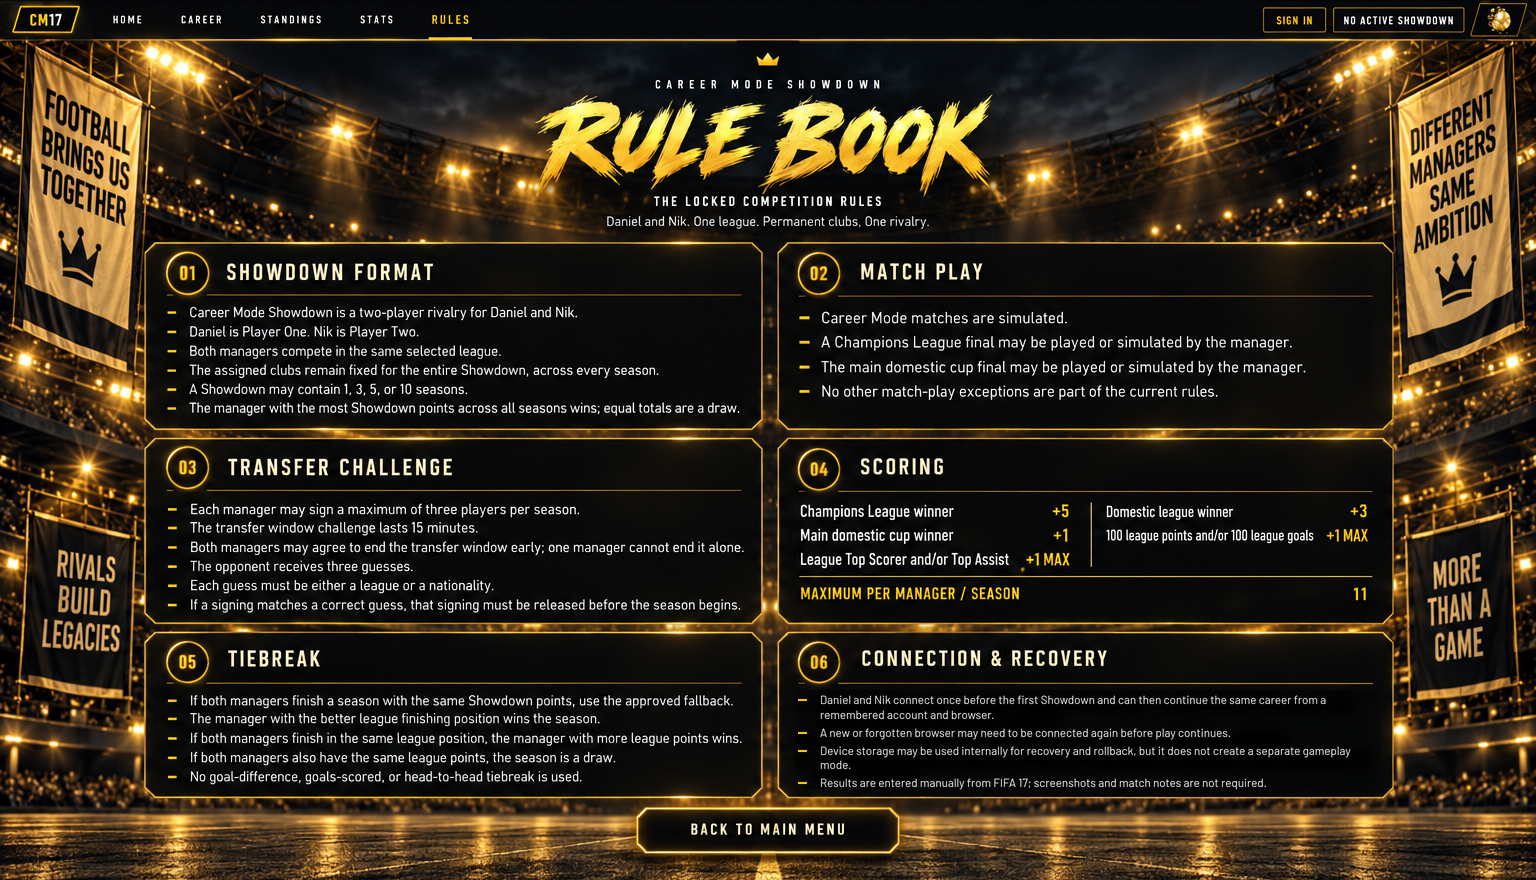
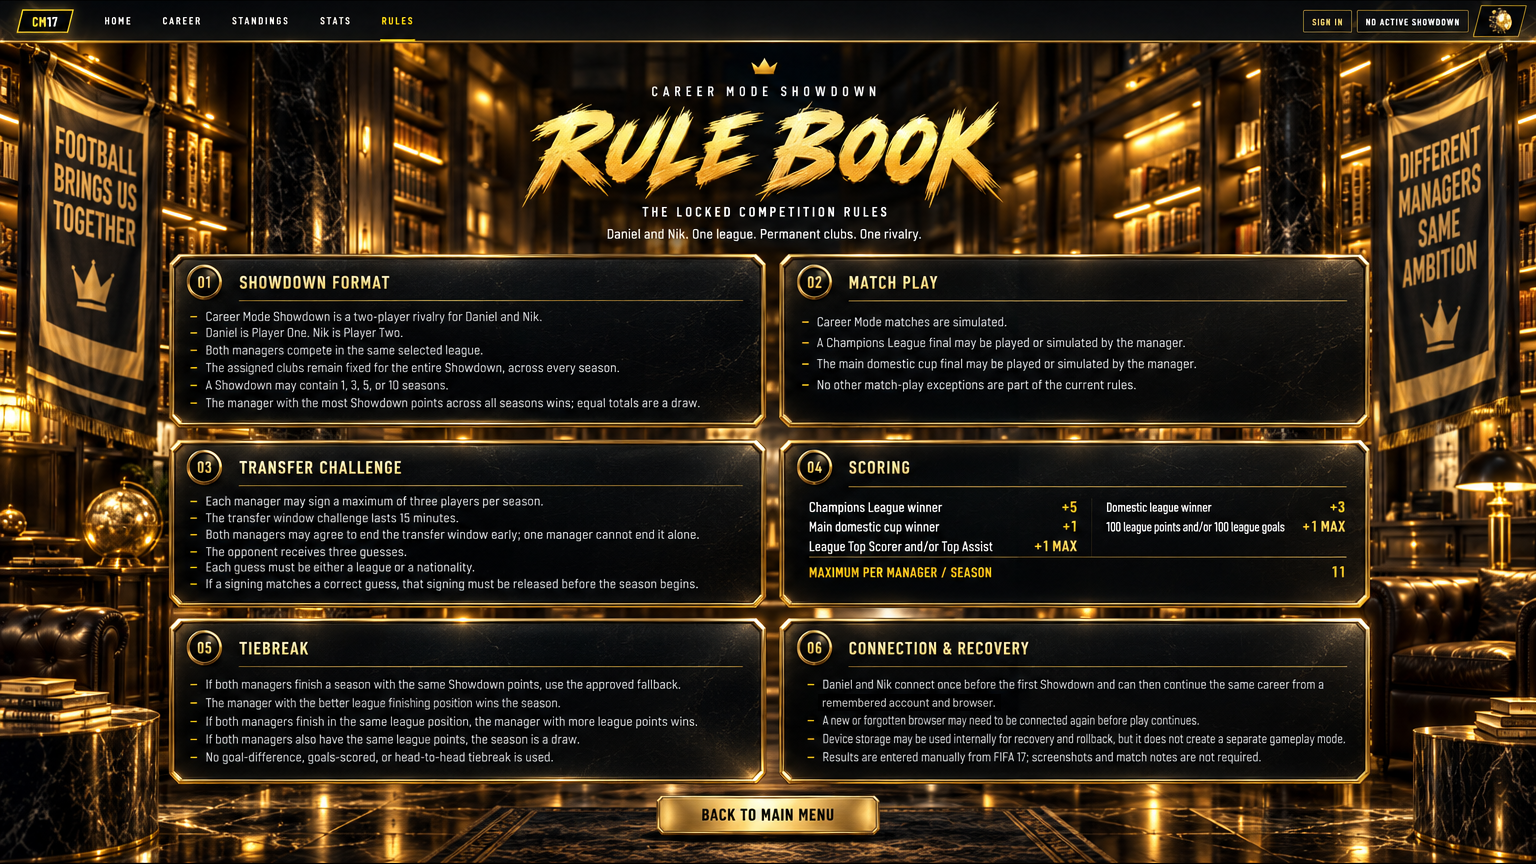
Mockups: re-approve NEXT_RULE_BOOK with the premium redo (one word repainted)
Claude-Session: https://claude.ai/code/session_013pn5j1NjipzmcDNVpF7Fd3

diff --git a/project-documents/factory/mockups/README.md b/project-documents/factory/mockups/README.md
@@ -30,7 +30,7 @@ Nik's mockups and goal images. They show the look to reach. Some contain real cl
 | PHONE_TROPHY_ROOM_SINGLE.png | Trophy Room (one tab picked) | Sat 10 Oct 11:22 p.m. Eastern | Ticket 1588 10B, first try. Same screen with CHAMPIONS LEAGUE lit: the 2 x 2 grid becomes one big display niche with the one trophy large on its plinth and a bigger name-and-counts band. Every other tab uses this layout with its own trophy and counts. Needs the high-res trophy art from ticket 10C (live art is only 341 x 512). sha256 0cd151a596a2b084… |
 | PHONE_FINAL_WINNER.png | Final Winner | Sat 10 Oct 11:23 p.m. Eastern | Ticket 1588 11 of 12, try 1 plus a buttons-only fix. Faces, trophy, scores and every word match live. New: richer stadium night, framed SUMMARY / HONOURS panel, and the two live buttons REVIEW MY SEASON RESULT (dark, gold edge) and BACK TO SHOWDOWN HOME (gold, main) fully on screen with a margin. In live they sit 6-7px from the bottom edge at 393x660. sha256 67de1d61ed589677… |
 | NEXT_HOME.png | Home (desktop, premium) | Sun 11 Oct 6:55 p.m. Eastern | Premium redo (ticket 1610 1 of 14, rewritten prompt), replaces the earlier approved Home, cropped to the screen (1536x871). Same layout and words as live: top bar with CM17 and the five tabs, SIGN IN and NO ACTIVE SHOWDOWN at the top right (SIGN IN required, Nik 11 Oct), THE RIVALRY STARTS HERE, CAREER MODE SHOWDOWN 17 gold brush title, TWO MANAGERS · ONE LEGACY, Daniel LEFT and Nik RIGHT with their name tags, Audius soundtrack card, RIVALRY HEADQUARTERS line, CONTINUE CAREER gold tile and the six tiles with large art. New: black-marble stadium lounge with brushed-gold columns and glass windows on the floodlit pitch, gold-bevel tiles. sha256 0ba7f7528bd2640f… |
-| NEXT_RULE_BOOK.png | Rule Book (desktop, next level) | Sun 11 Oct 3:58 a.m. Eastern | Ticket 1610 13 of 14, first try with the stricter prompt, cropped to the screen (1536x880). Top bar, title, all six cards and every line of 01-05 plus the scoring table match live. Claude fix: GPT merged and garbled the four 06 CONNECTION & RECOVERY lines, so Claude repainted that card body with the four live lines in Barlow (no other pixels touched). Wiring notes: the subtitle shows a comma after "Permanent clubs" (live has a full stop), and the right banner reads SAME AMBITION; use the live banner art (SAME PASSION). New: calmer gold stadium, framed cards, bigger readable rule lines. sha256 bc23b9e610d44f75… |
+| NEXT_RULE_BOOK.png | Rule Book (desktop, premium) | Sun 11 Oct 8:28 p.m. Eastern | Premium redo (ticket 1610 13 of 14, rewritten prompt), replaces the 3:58 a.m. picture, cropped to 16:9 (1536x864). Top bar with SIGN IN and NO ACTIVE SHOWDOWN, RULE BOOK gold brush title, subtitle, all six cards: every rule line in 01-03, 05, 06 and every scoring value in 04 match live (04 shows Domestic league winner +3 in the right column; live order is fine either way). Claude fix: GPT garbled one word in card 06 ("remembered"), so Claude repainted that one line with the live text in Barlow (no other pixels touched). Wiring note: the right banner reads SAME AMBITION again; use the live banner art (SAME PASSION). New: private members' library with black marble, brushed-gold shelving, gold-bevel framed cards with engraved numbers, polished-gold BACK TO MAIN MENU. sha256 45a057afb50a8d41… |
 | NEXT_CONNECT_PLAYERS.png | Connect Players (desktop, premium) | Sun 11 Oct 6:54 p.m. Eastern | Premium redo (ticket 1610 2 of 14, rewritten prompt), replaces the 6:30 p.m. picture, cropped to 16:9 (1536x864). Same layout and words as live: top bar with CM17 and the five tabs, CONNECT PLAYERS gold-leaf title and line, Daniel LEFT and Nik RIGHT unchanged, all four banners, BACK in the right card. New: black-marble VIP tunnel with brushed-gold walls, framed gold-bevel cards, polished-gold CHOOSE SEASONS. Wiring note: card titles show a dash (DANIEL - START, NIK - JOIN); keep the live middle dot. sha256 e86d6f0a4ba5f52d… |
 | NEXT_SEASON_RESULTS.png | Season Results (desktop, premium) | Sun 11 Oct 6:58 p.m. Eastern | Premium redo (ticket 1610 3 of 14, rewritten prompt), replaces the 6:33 p.m. picture, cropped to 16:9 (1536x864). Same layout and words as live: top bar with lock marks and the DANIEL / SEASON 1 / 1 chips, SEASON RESULTS gold brush title, TWO MANAGERS · ONE LEGACY, scoring card (+5, +3, +1, +1, +1, max 11), Daniel's entry card (Arsenal, our original badge), four award checkboxes, REVIEW MY SEASON RESULT and BACK TO SHOWDOWN HOME. Daniel LEFT, Nik RIGHT unchanged, all four banners. New: black-marble broadcast stand, trophy on a marble plinth, gold-bevel framed cards, polished-gold main button. Wiring note: keep our own club badge. sha256 49bc9add9db5d71d… |
 | PHONE_SETTINGS.png | Settings | Sat 10 Oct 11:22 p.m. Eastern | Ticket 1588 12 of 12, first try. Every word matches live. New: bevelled black glass panels with gold edges, gold-framed SIGN IN WITH GOOGLE, bevelled gold DONE with a clear margin, calmer stadium. Wiring note: DANIEL & NIK and CAREER MODE SHOWDOWN headings still use a plain sans copied from live; use the game condensed font there like every other label. sha256 13f4c99be317608a… |
